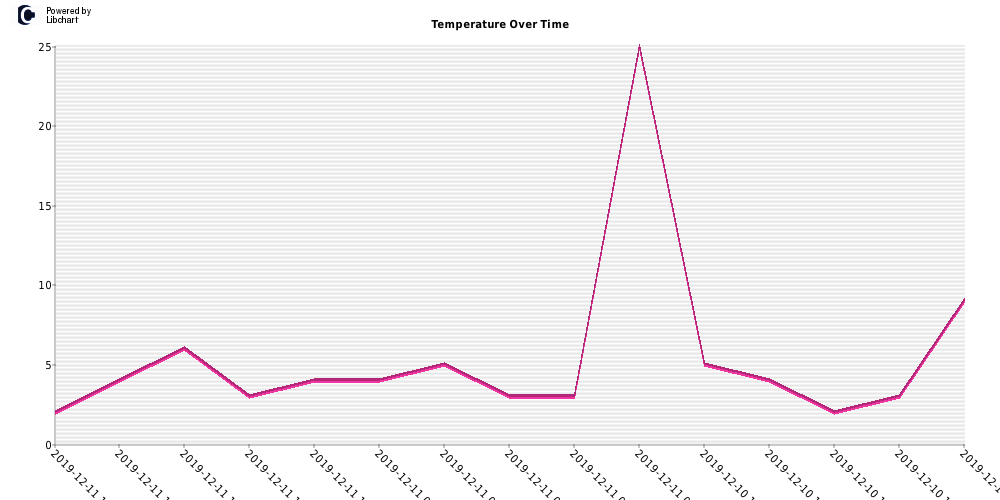
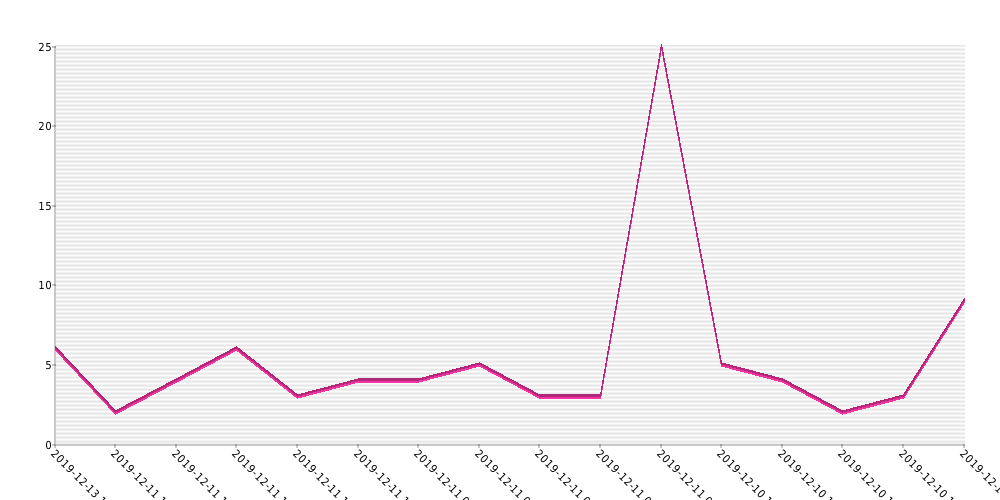
Chart is appearing however isn't formatted correctly

diff --git a/includes/CTEC3110-Coursework/app/src/MessageAnalyticsModel.php b/includes/CTEC3110-Coursework/app/src/MessageAnalyticsModel.php
@@ -51,8 +51,8 @@ class MessageAnalyticsModel
         $output_chart_name = 'message-linechart.png';
 
         $output_chart_location = LIB_CHART_OUTPUT_PATH;
-        $this->output_chart_details = LANDING_PAGE . DIRSEP . $output_chart_location . $output_chart_name;
-        $this->output_chart_path_and_name = LIB_CHART_FILE_PATH . $output_chart_location . $output_chart_name;
+        $this->output_chart_details = $output_chart_location . $output_chart_name;
+        $this->output_chart_path_and_name = $output_chart_location . $output_chart_name;
 
 
         if (!is_dir($output_chart_location)) {
@@ -83,7 +83,7 @@ class MessageAnalyticsModel
 
         $chart->setDataSet($series1);
 
-        $chart->setTitle('Temperature Over Time');
+        $chart->setTitle('');
         $chart->getPlot()->setGraphCaptionRatio(0.75);
 
         $chart->render($this->output_chart_path_and_name);

diff --git a/includes/CTEC3110-Coursework/app/routes/analytics.php b/includes/CTEC3110-Coursework/app/routes/analytics.php
@@ -47,6 +47,10 @@ $app->get('/analytics', function (Request $request, Response $response) use ($ap
 
 function createChart($app, array $message_data)
 {
+    if (function_exists('xdebug_start_trace'))
+    {
+      xdebug_start_trace();
+    }
     require_once 'libchart/classes/libchart.php';
 
     $messageChartModel = $app->getContainer()->get('messageAnalytics');
@@ -54,6 +58,11 @@ function createChart($app, array $message_data)
     $messageChartModel->setStoredMessageData($message_data);
     $messageChartModel->createLineChart();
     $chart_details = $messageChartModel->getLineChartDetails();
+
+    if (function_exists('xdebug_stop_trace'))
+    {
+    xdebug_stop_trace();
+    }
 
     return $chart_details;
 }
